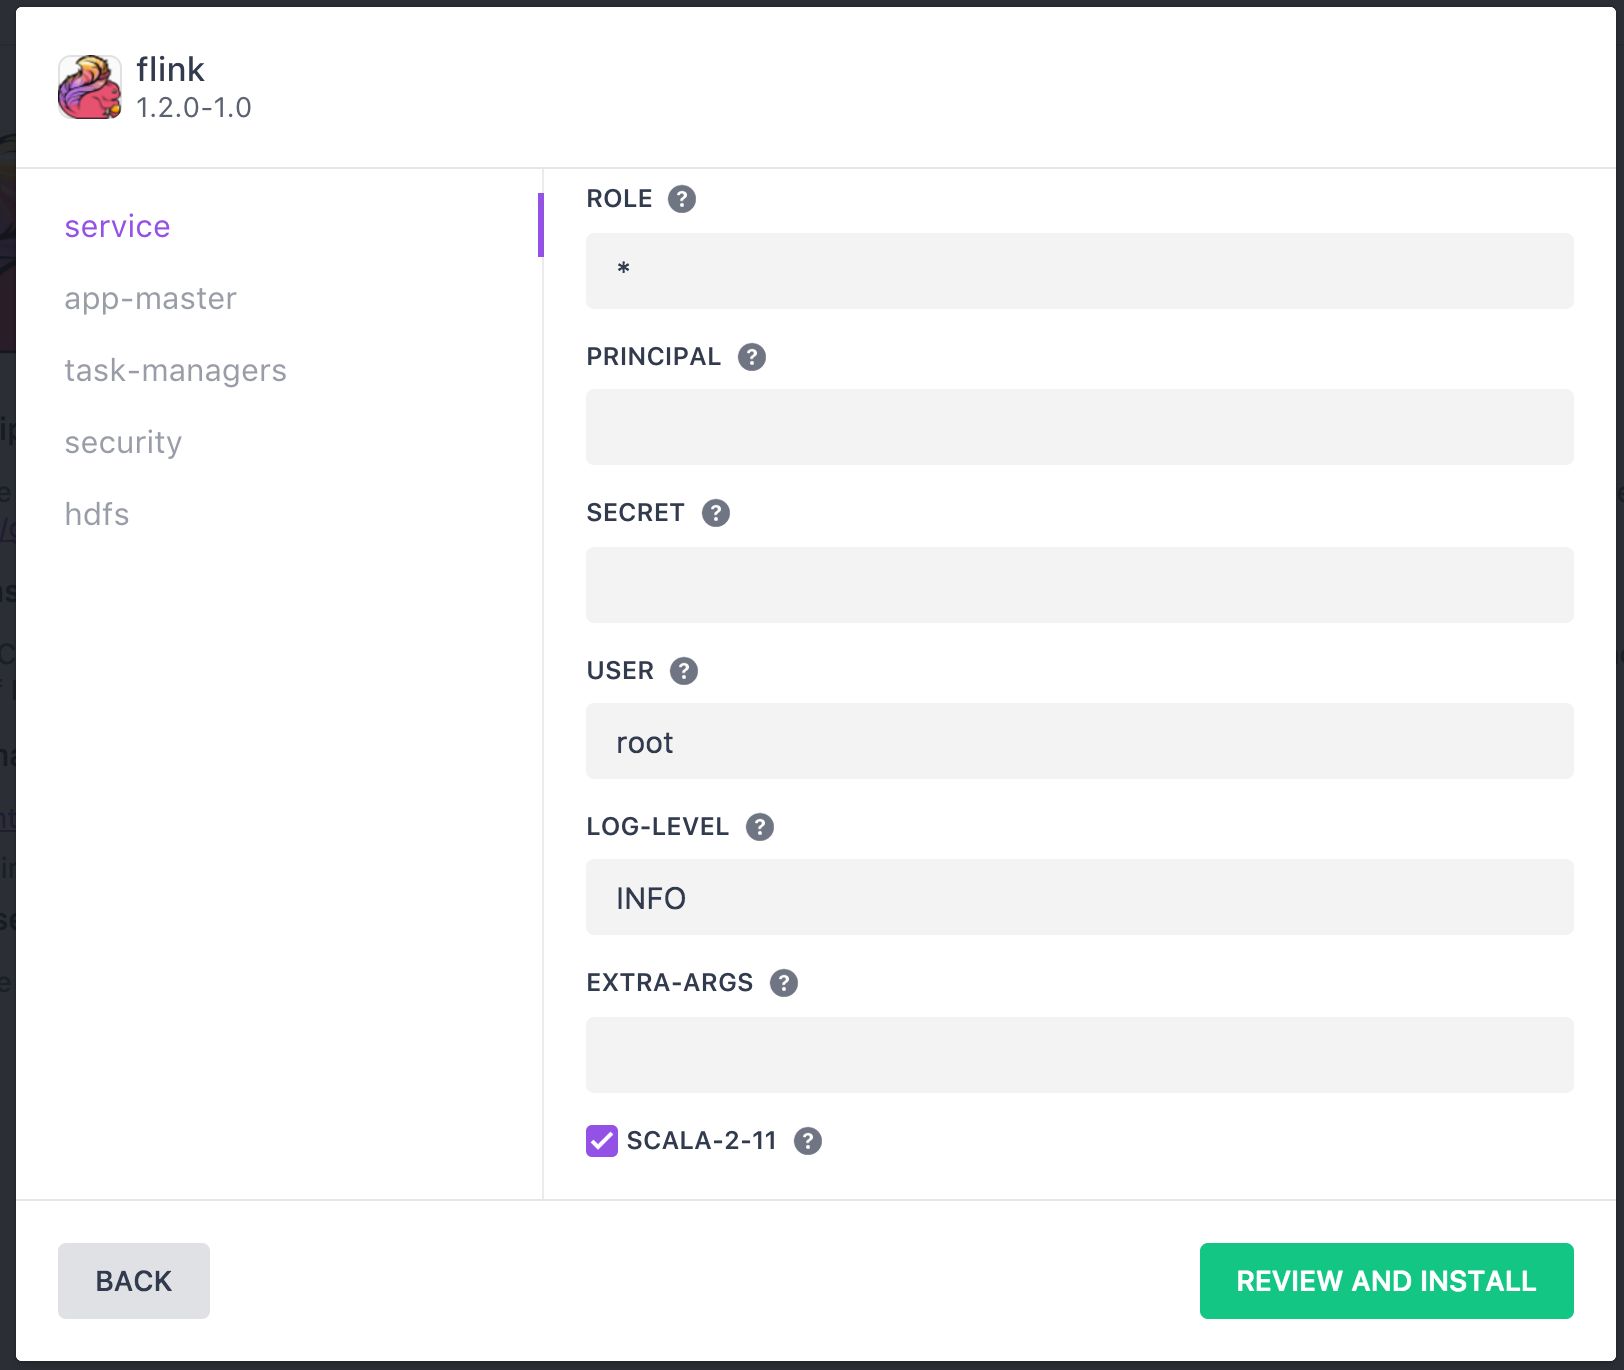
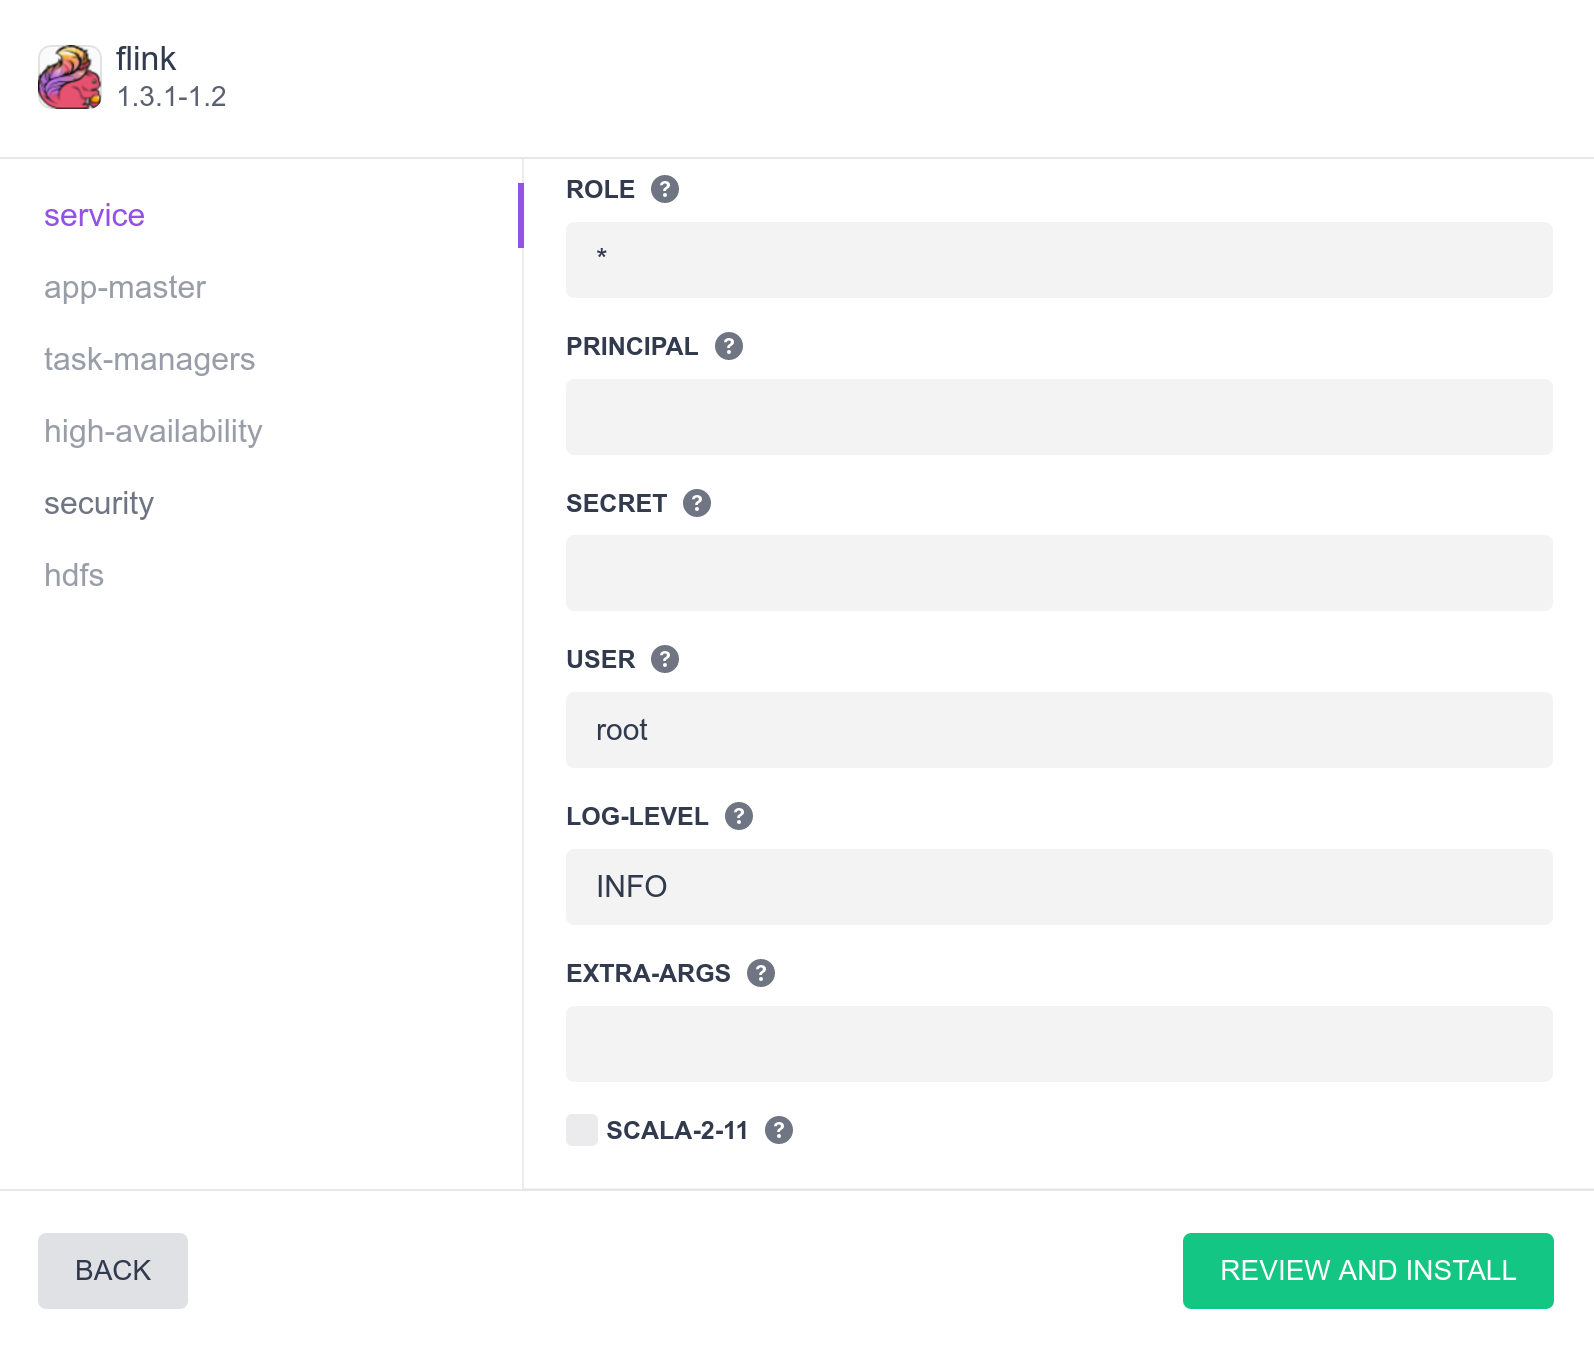
flink_ha_example

diff --git a/flink/1.8/README.md b/flink/1.8/README.md
@@ -17,6 +17,9 @@
 
 - A running DC/OS 1.8 cluster with 1 agents with each 2 CPU and 2 GB of RAM available.
 - [DC/OS CLI](https://dcos.io/docs/1.8/usage/cli/install/) installed.
+- HDFS installed, as by default High Availability (HA) is enabled. See more in the specific section later on in this readme as you need also to create an hdfs path for flink recovery metadata. To start without HA, disable it by un-checking the `ENABLED` option:
+
+![HA enabled](img/ha_enabled.png)
 
 ## Install Flink
 
@@ -76,6 +79,33 @@ core@ip-10-0-6-55 ~ $ docker run -it mesosphere/dcos-flink:1.2.0-1.2 /bin/bash
 
 root@2a9c01d3594e:/flink-1.2.0# ./bin/flink run -m <jobmangerhost>:<jobmangerjobmanager.rpc.port> ./examples/batch/WordCount.jar --input file:///etc/resolv.conf --output file:///etc/wordcount_out
 ```
+### Running with HA
+
+There are several settings affecting HA mode which you could check at relevant configuration section. Default values are specified in order to launch the service automatically.
+Before launching Flink service you need to create a directory on HDFS which must
+have the same root path as the one specified in STORAGE-DIR property and as leaf folder the service name (default: hdfs://hdfs/flink/recovery/flink), the default service name is flink.
+
+Login to a container as described previously:
+
+Download the hadoop config files needed to access hdfs in dc/os:
+root@ddfbaadb2094:/flink-1.3.1# wget http://api.hdfs.marathon.l4lb.thisdcos.directory/v1/endpoints/hdfs-site.xml
+
+root@ddfbaadb2094:/flink-1.3.1# wget http://api.hdfs.marathon.l4lb.thisdcos.directory/v1/endpoints/core-site.xml
+
+Add to the conf/flink-conf.yaml file th efollowing options:
+
+high-availability: zookeeper
+high-availability.zookeeper.quorum: master.mesos:2181
+high-availability.zookeeper.storageDir: hdfs://hdfs/flink/recovery/flink
+high-availability.zookeeper.path.root: /dcos-service-flink/flink
+fs.hdfs.hadoopconf: /flink-1.3.1
+
+Note: the above high availability options are also set in the flink service in the
+ui and they must be a match. The baove values are the default ones.
+
+Run a job:
+
+root@ddfbaadb2094:/flink-1.3.1# ./bin/flink run -z /default-flink ./examples/batch/WordCount.jar --input file:///etc/resolv.conf --output file:///etc/wordcount_out
 
 ### DC/OS Flink CLI
 Coming soon.
@@ -88,6 +118,3 @@ To uninstall Flink:
 ```bash
 $ dcos package uninstall flink
 ```
-
-
-

diff --git a/flink/1.9/README.md b/flink/1.9/README.md
@@ -17,6 +17,9 @@
 
 - A running DC/OS 1.9 cluster with 1 agents with each 2 CPU and 2 GB of RAM available.
 - [DC/OS CLI](https://dcos.io/docs/1.9/usage/cli/install/) installed.
+- HDFS installed, as by default High Availability (HA) is enabled. See more in the specific section later on in this README as you need also to create an hdfs path for flink recovery metadata. To start without HA, disable it by un-checking the `ENABLED` option:
+
+![HA enabled](img/ha_enabled.png)
 
 ## Install Flink
 
@@ -78,6 +81,34 @@ core@ip-10-0-6-55 ~ $ docker run -it mesosphere/dcos-flink:1.3.1-1.0 /bin/bash
 
 root@178cdd4e4f70:/flink-1.3-SNAPSHOT# cd /flink-1.3.1/ && ./bin/flink run -m <jobmangerhost>:<jobmangerjobmanager.rpc.port> ./examples/batch/WordCount.jar --input file:///etc/resolv.conf --output file:///etc/wordcount_out
 ```
+
+### Running with HA
+
+There are several settings affecting HA mode which you could check at relevant configuration section. Default values are specified in order to launch the service automatically.
+Before launching Flink service you need to create a directory on HDFS which must
+have the same root path as the one specified in STORAGE-DIR property and as leaf folder the service name (default: hdfs://hdfs/flink/recovery/flink), the default service name is flink.
+
+Login to a container as described previously:
+
+Download the hadoop config files needed to access hdfs in dc/os:
+root@ddfbaadb2094:/flink-1.3.1# wget http://api.hdfs.marathon.l4lb.thisdcos.directory/v1/endpoints/hdfs-site.xml
+
+root@ddfbaadb2094:/flink-1.3.1# wget http://api.hdfs.marathon.l4lb.thisdcos.directory/v1/endpoints/core-site.xml
+
+Add to the conf/flink-conf.yaml file th efollowing options:
+
+high-availability: zookeeper
+high-availability.zookeeper.quorum: master.mesos:2181
+high-availability.zookeeper.storageDir: hdfs://hdfs/flink/recovery/flink
+high-availability.zookeeper.path.root: /dcos-service-flink/flink
+fs.hdfs.hadoopconf: /flink-1.3.1
+
+Note: the above high availability options are also set in the flink service in the
+ui and they must be a match. The baove values are the default ones.
+
+Run a job:
+
+root@ddfbaadb2094:/flink-1.3.1# ./bin/flink run -z /default-flink ./examples/batch/WordCount.jar --input file:///etc/resolv.conf --output file:///etc/wordcount_out
 
 ### DC/OS Flink CLI
 Coming soon.
